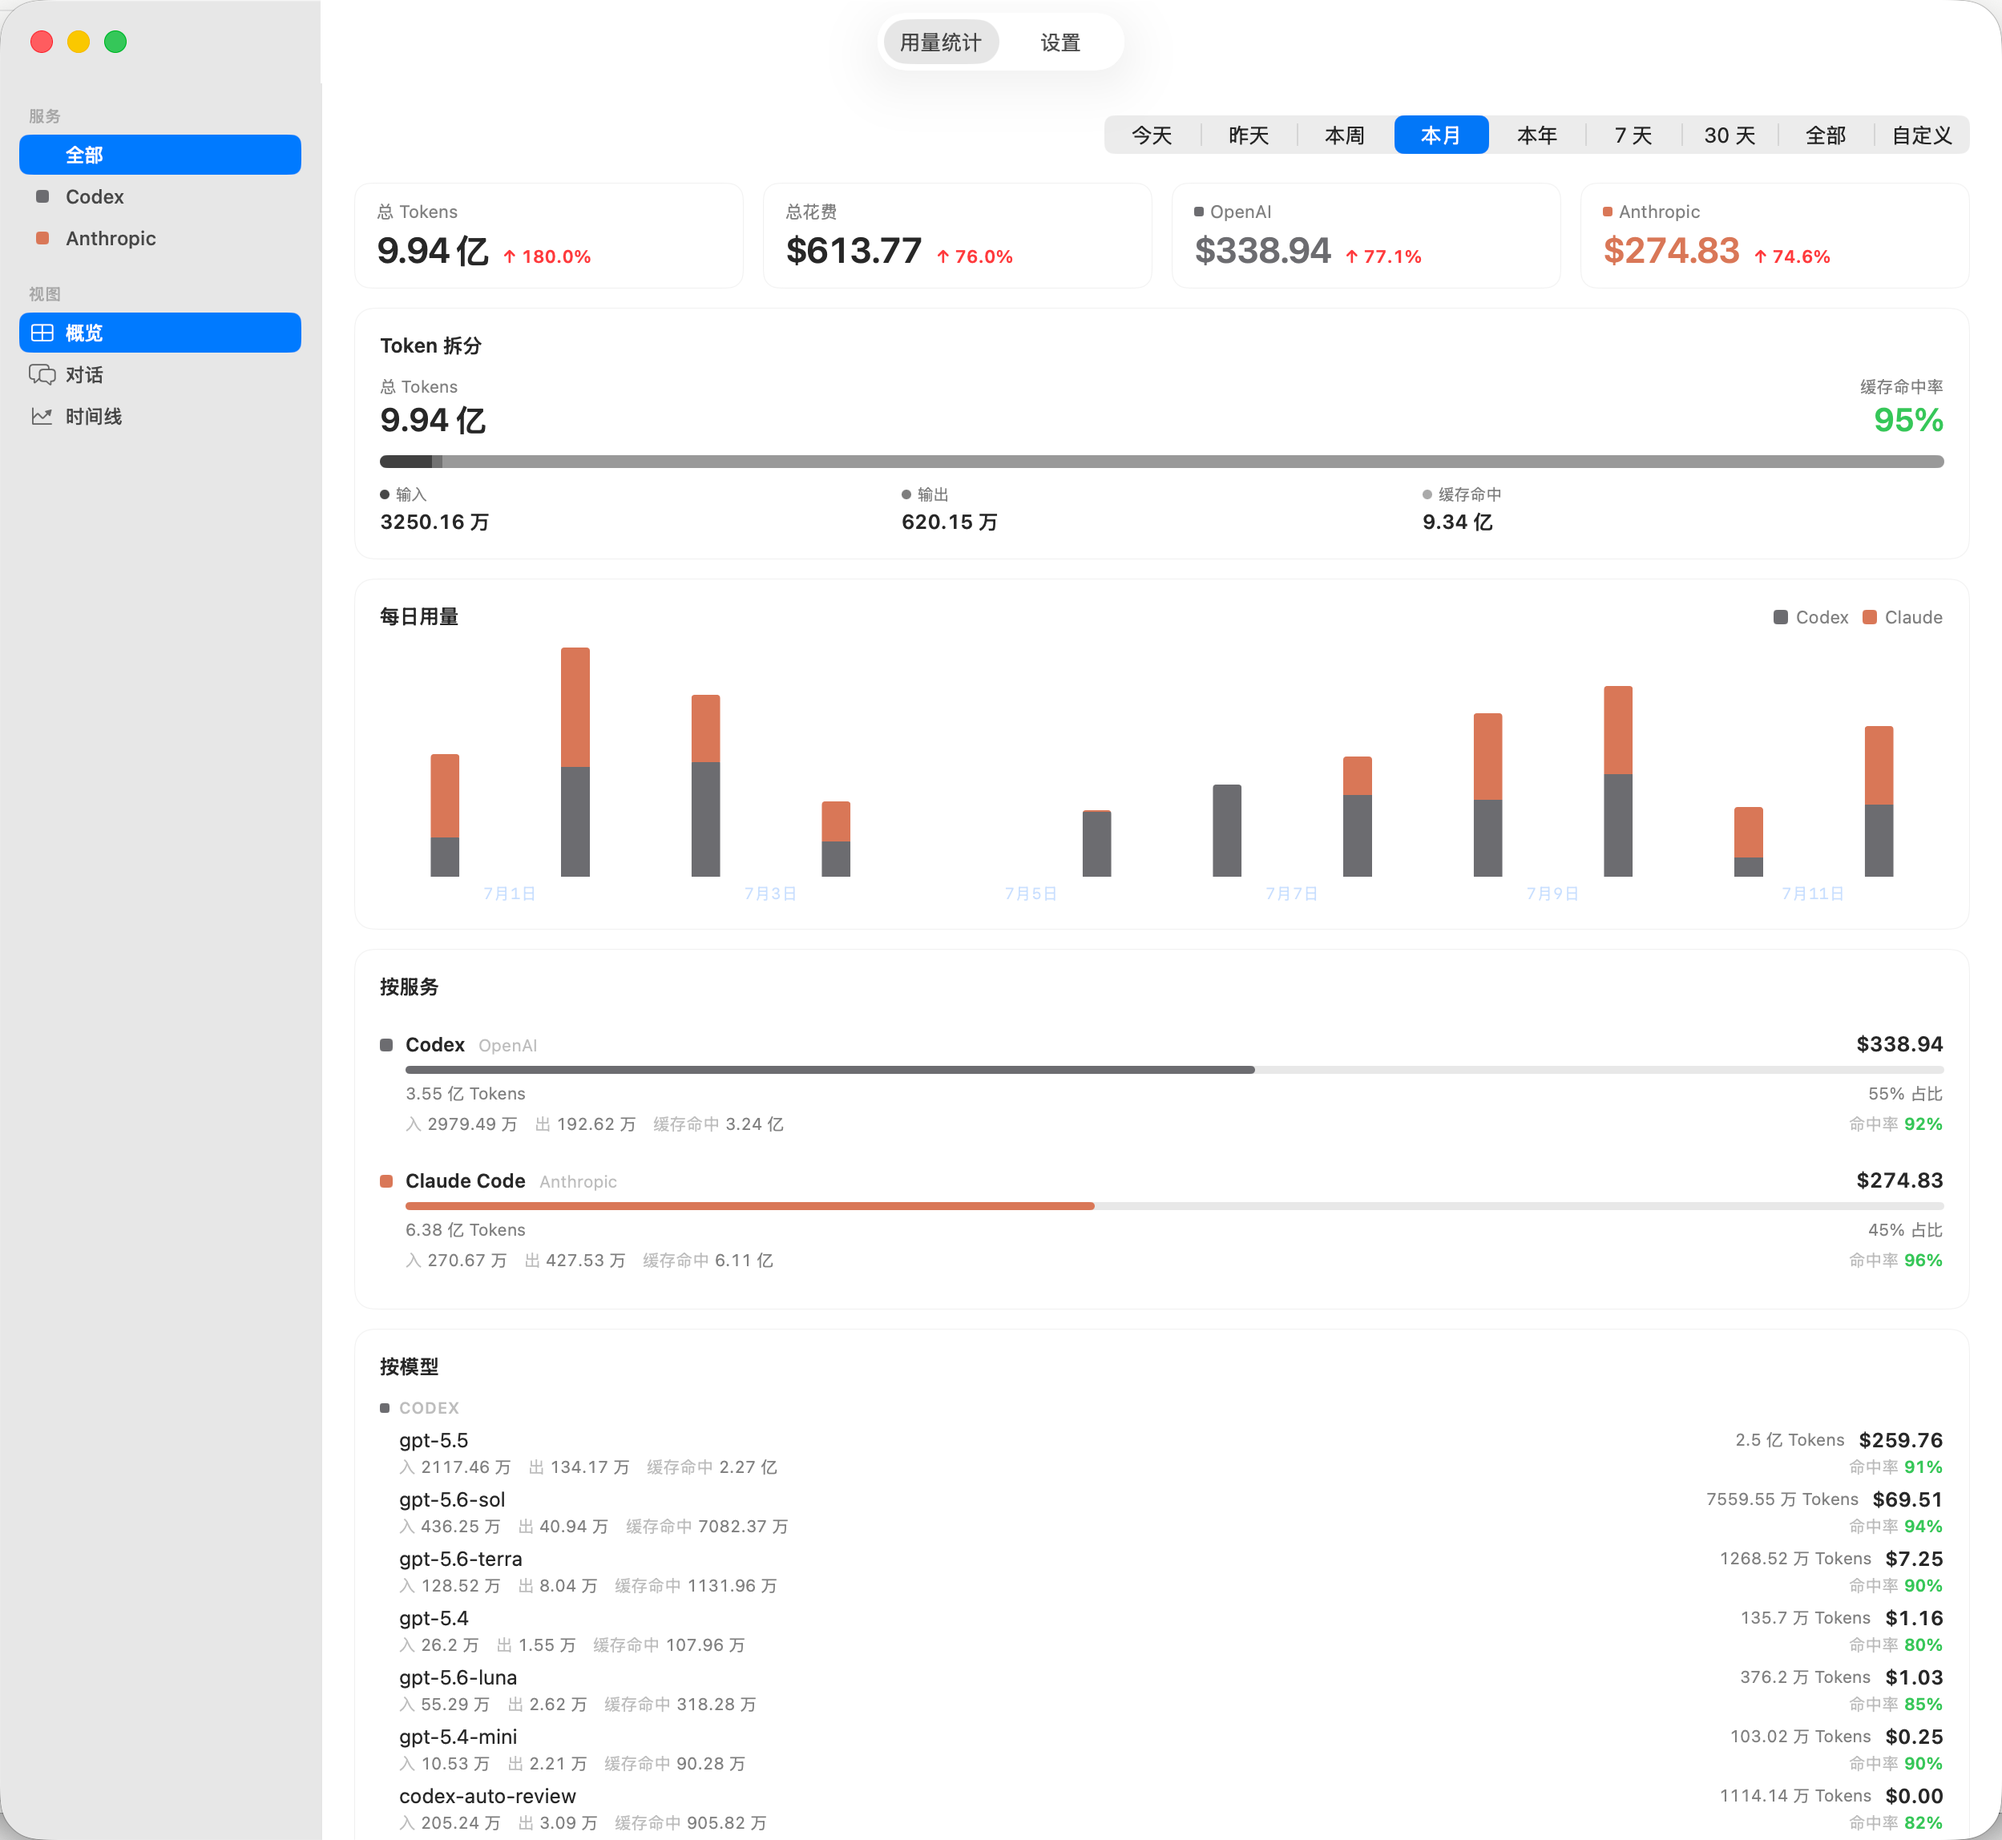
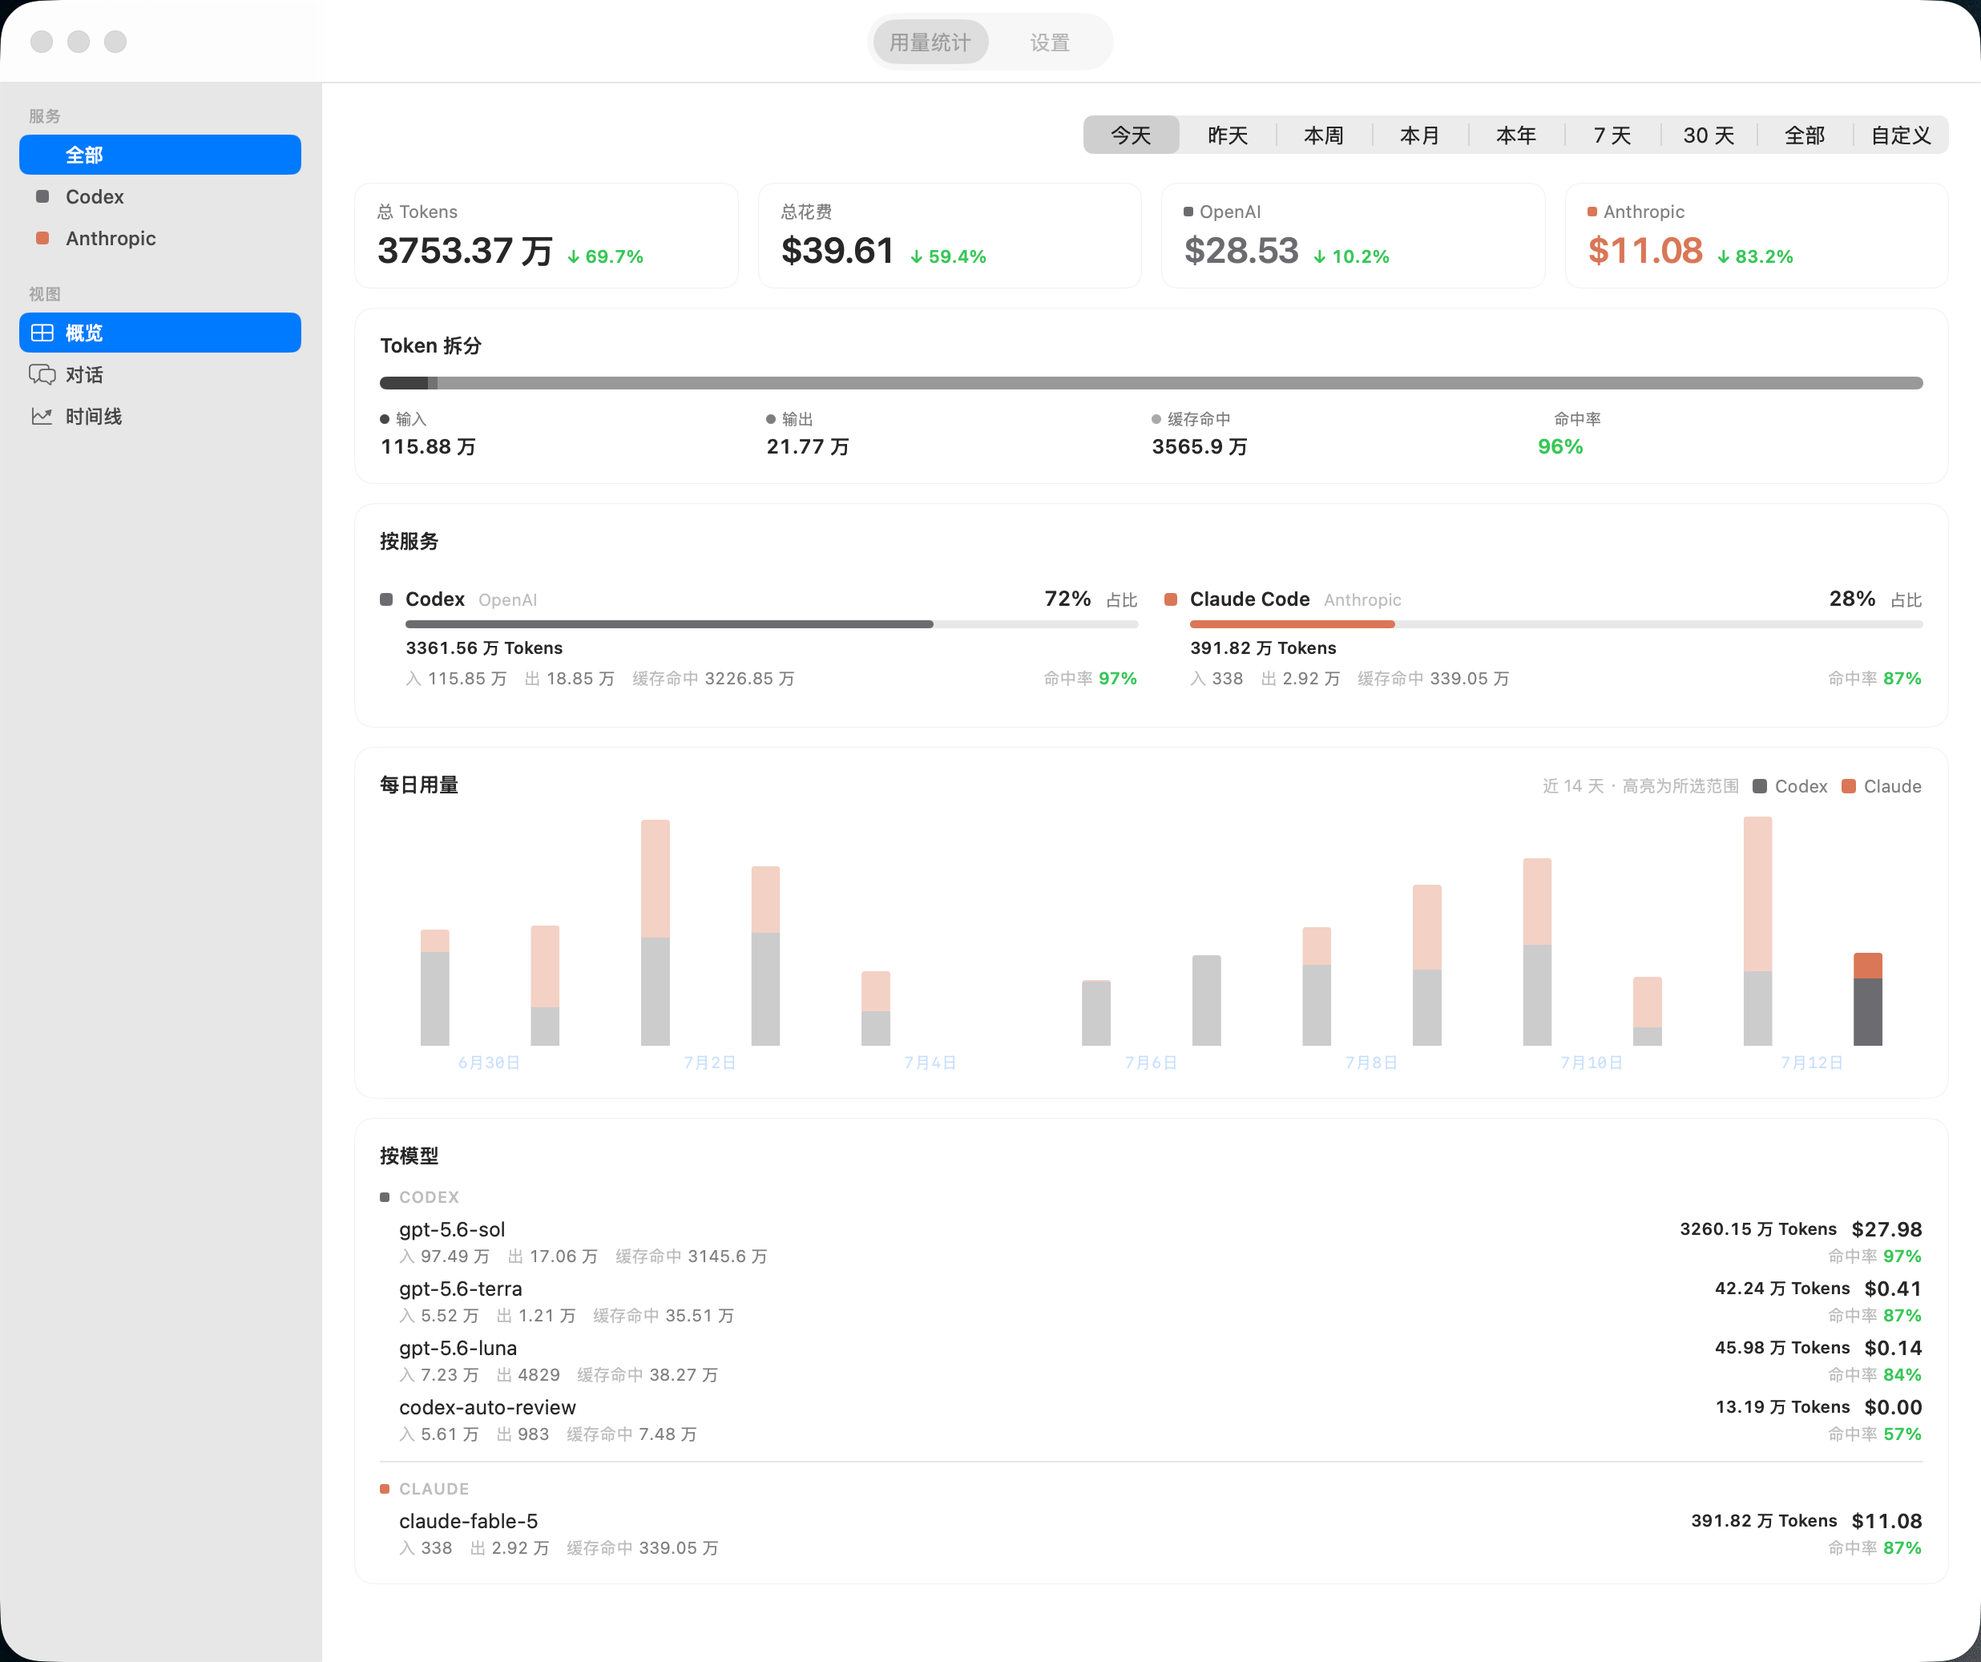
docs: 更新 README 截图
- 菜单栏弹窗改为浅色/深色两图并排展示
- 更新用量统计概览、时间线截图

diff --git a/README.md b/README.md
@@ -8,7 +8,8 @@
 </p>
 
 <p align="center">
-  <img src="docs/Screenshots/overview.png" width="380" alt="Popover 总览">
+  <img src="docs/Screenshots/popover-light.png" width="360" alt="Popover 总览 - 浅色模式">
+  <img src="docs/Screenshots/popover-dark.png" width="360" alt="Popover 总览 - 深色模式">
 </p>
 
 ## 功能
